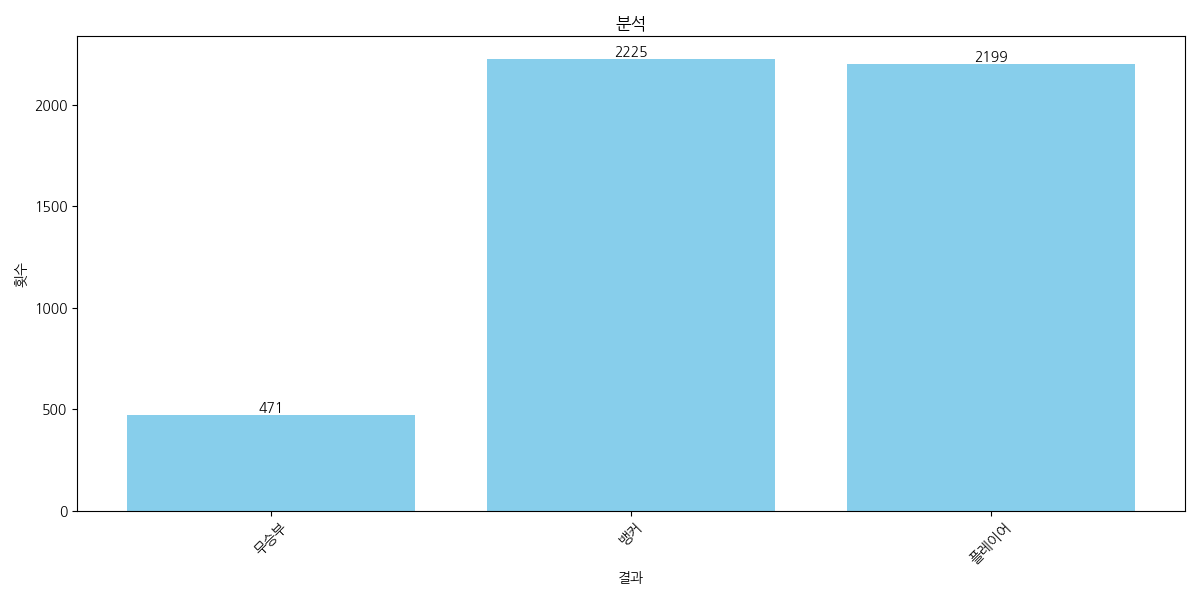
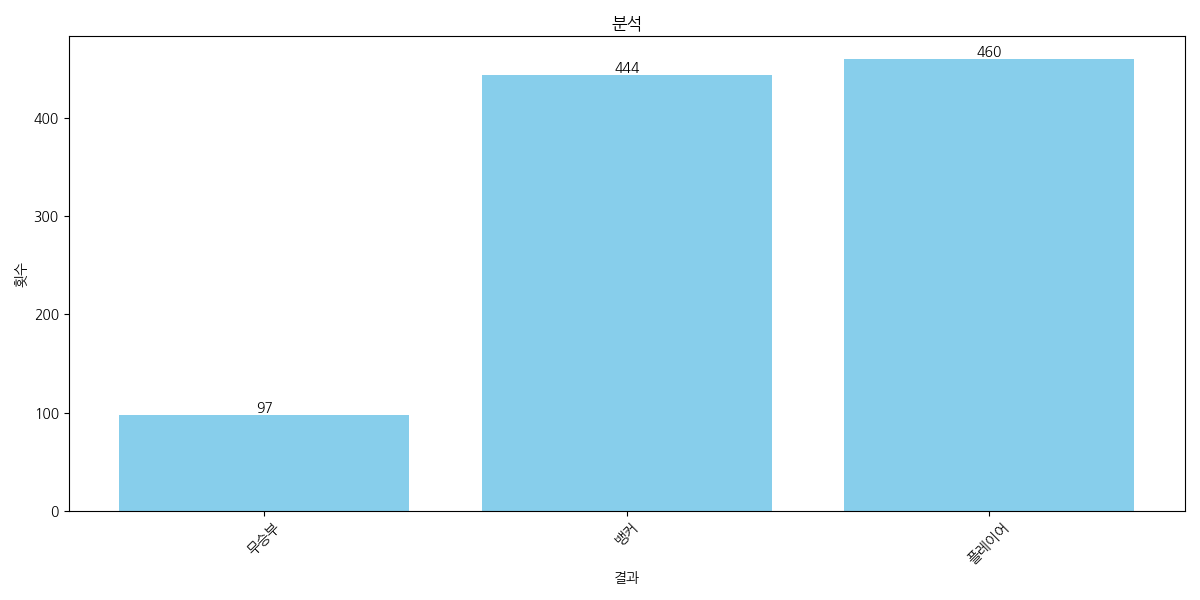
commit

diff --git a/main.py b/main.py
@@ -765,7 +765,7 @@ class YTDLSource(disnake.PCMVolumeTransformer):
         self.title = data.get('title')
         self.url = data.get('url')
         self.thumbnail = data.get('thumbnail')
-        self.original = source  # self.original 설정
+        self.original = source  # Ensure original is set correctly
 
     @classmethod
     async def from_url(cls, url, *, loop=None, stream=False):
@@ -979,6 +979,7 @@ async def send_control_buttons(ctx, embed):
         disnake.ui.Button(label="다시 재생", style=disnake.ButtonStyle.green, custom_id="resume"),
         disnake.ui.Button(label="음량 변경", style=disnake.ButtonStyle.blurple, custom_id="volume_change"),
         disnake.ui.Button(label="노래 변경", style=disnake.ButtonStyle.grey, custom_id="change_song"),
+        disnake.ui.Button(label="반복", style=disnake.ButtonStyle.green, custom_id="repeat"),
     ]
 
     button_row = disnake.ui.View(timeout=None)
@@ -991,6 +992,7 @@ async def send_control_buttons(ctx, embed):
     button_row.children[1].callback = resume_callback
     button_row.children[2].callback = volume_change_callback
     button_row.children[3].callback = change_song_callback
+    button_row.children[4].callback = repeat_callback
 
 async def pause_callback(interaction):
     interaction.guild.voice_client.pause()
@@ -1001,38 +1003,22 @@ async def resume_callback(interaction):
         await interaction.response.send_message("음악이 다시 재생되었습니다.", ephemeral=True)
     else:
         await interaction.response.send_message("현재 재생 중인 음악이 없습니다.", ephemeral=True)
-        await interaction.response.send_message("현재 재생 중인 음악이 없습니다.", ephemeral=True)
 
 async def volume_change_callback(interaction):
     await interaction.response.send_modal(VolumeChangeModal())
 
 async def change_song_callback(interaction):
-    await interaction.response.send_message("변경할 음악의 유튜브 링크 또는 음악 제목을 입력해주세요:", ephemeral=True)
+    await interaction.response.send_modal(MusicChangeModal())
 
-    def check(m):
-        return m.author == interaction.author and m.channel == interaction.channel
-
-    try:
-        msg = await bot.wait_for('message', check=check, timeout=30.0)
-        new_url_or_name = msg.content.strip()
-
-        if not new_url_or_name:
-            raise ValueError("입력된 값이 비어 있습니다.")
-
-        new_player = await YTDLSource.from_url(new_url_or_name, loop=bot.loop, stream=True)
-
-        interaction.guild.voice_client.stop()
-        interaction.guild.voice_client.play(new_player)
-
-        change_embed = disnake.Embed(color=0x00ff00, description=f"새로운 음악을 재생합니다: {new_url_or_name}")
-        await interaction.followup.send(embed=change_embed, ephemeral=True)
-
-    except asyncio.TimeoutError:
-        embed = disnake.Embed(color=0xff0000, title="❌ 오류", description="시간이 초과되었습니다. 다시 시도해주세요.")
-        await interaction.followup.send(embed=embed, ephemeral=True)
-    except Exception as e:
-        embed = disnake.Embed(color=0xff0000, title="❌ 오류", description=str(e))
-        await interaction.followup.send(embed=embed, ephemeral=True)
+async def repeat_callback(interaction):
+    voice_client = interaction.guild.voice_client
+    if voice_client.is_playing():
+        current_source = voice_client.source
+        voice_client.stop()
+        voice_client.play(current_source)
+        await interaction.response.send_message("음악이 반복 재생됩니다.", ephemeral=True)
+    else:
+        await interaction.response.send_message("현재 재생 중인 음악이 없습니다.", ephemeral=True)
 
 async def play_song(ctx, channel_id, url_or_name):
     voice_client = voice_clients.get(channel_id)
@@ -2174,6 +2160,10 @@ async def baccarat(ctx):
     # 데이터 분리
     commands = [row[0] for row in results]
     counts = [row[1] for row in results]
+    total_counts = sum(counts)
+
+    # 퍼센트 계산
+    percentages = [(count / total_counts) * 100 for count in counts]
 
     # 그래프 그리기
     plt.figure(figsize=(12, 6))
@@ -2184,10 +2174,10 @@ async def baccarat(ctx):
     plt.xticks(rotation=45)
     plt.tight_layout()
 
-    # 바 위에 횟수 표시
-    for bar in bars:
+    # 바 위에 횟수와 퍼센트 표시
+    for bar, percentage in zip(bars, percentages):
         yval = bar.get_height()
-        plt.text(bar.get_x() + bar.get_width()/2, yval, int(yval), ha='center', va='bottom')
+        plt.text(bar.get_x() + bar.get_width()/2, yval, f'{int(yval)}\n({percentage:.2f}%)', ha='center', va='bottom')
 
     # 그래프 이미지 저장
     image_path = 'baccarat_analysis.png'
